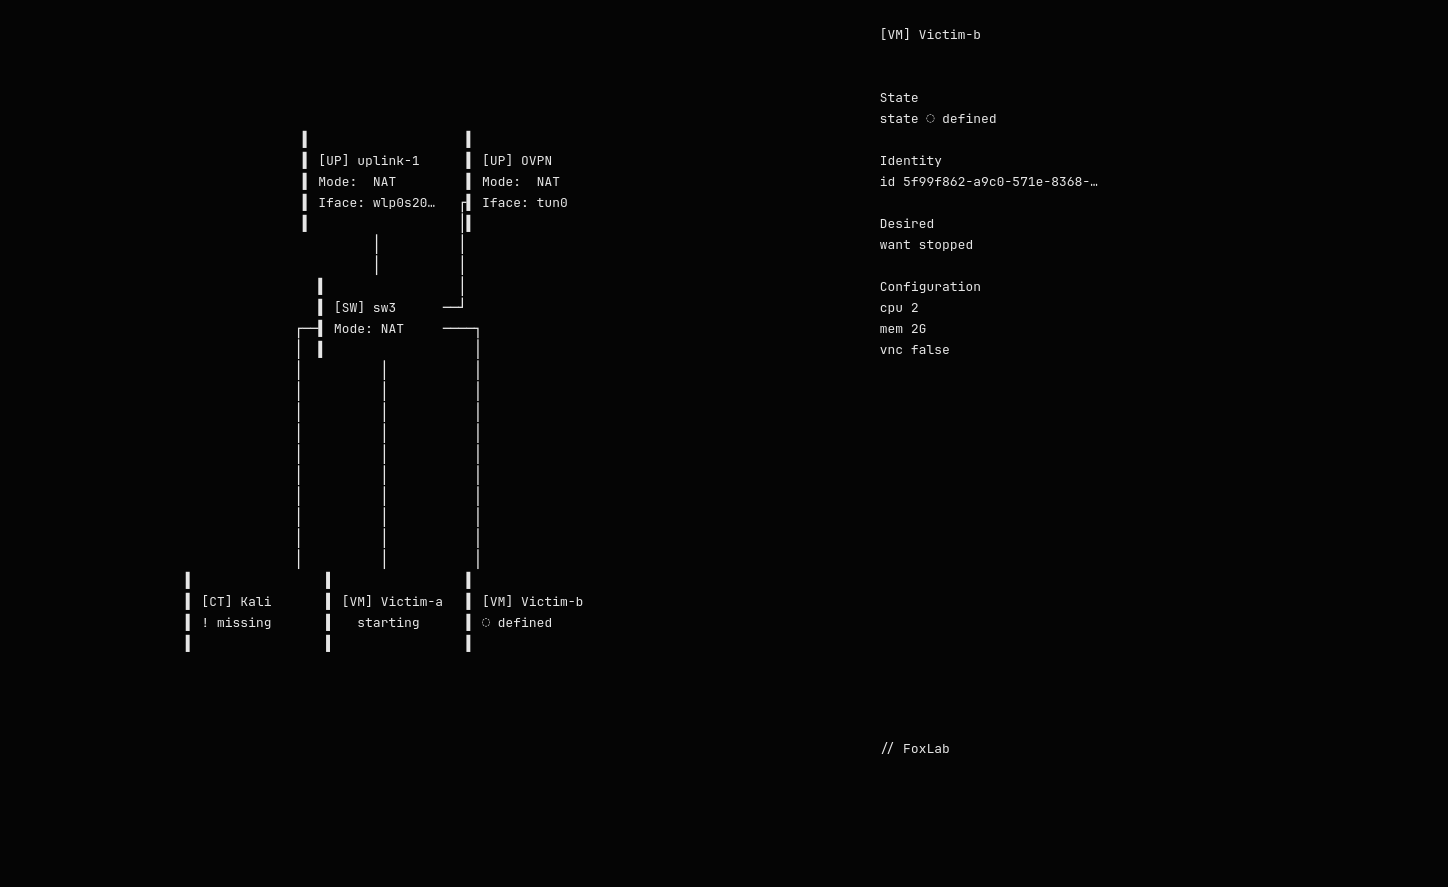
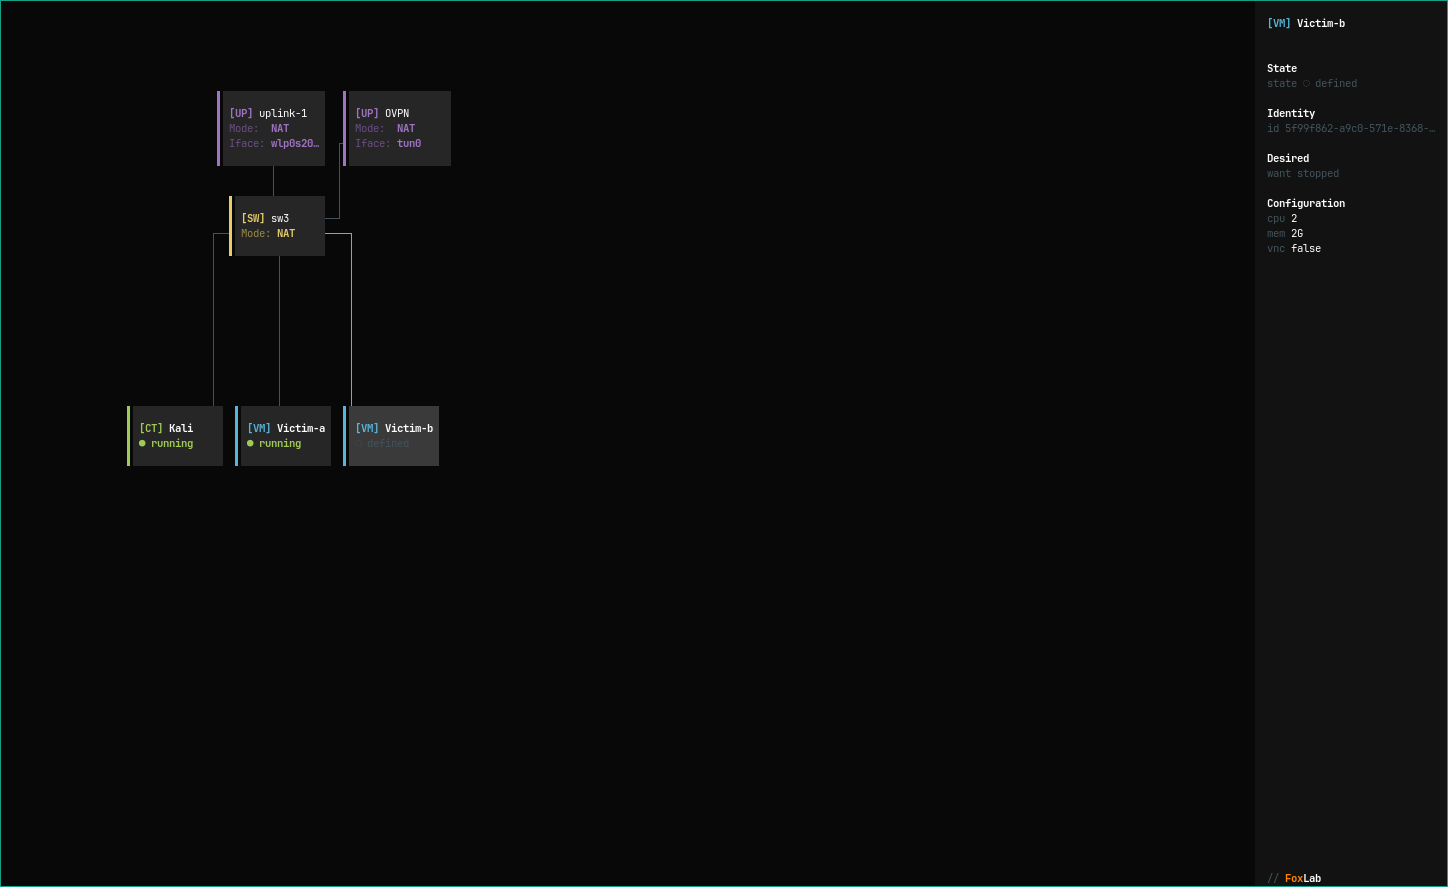
Use real terminal screenshot in README

diff --git a/README.md b/README.md
@@ -8,8 +8,9 @@ containerd backends.
 
 ![FoxLab default lab topology TUI showcase](docs/showcase/foxlab-default-topology.png)
 
-The showcase image is a terminal screenshot of the current default lab at `~/.foxlab/default.lab`.
-Render the same lab as one non-interactive frame with:
+The showcase image is a real terminal screenshot of an interactive `foxlab`
+session opened on the default lab at `~/.foxlab/default.lab`.
+Render the same lab as one non-interactive smoke frame with:
 
 ```sh
 GOCACHE=/tmp/foxlab-cli-go-build GOPROXY=off go run ./cmd/foxlab --no-raw --width 140 --height 36